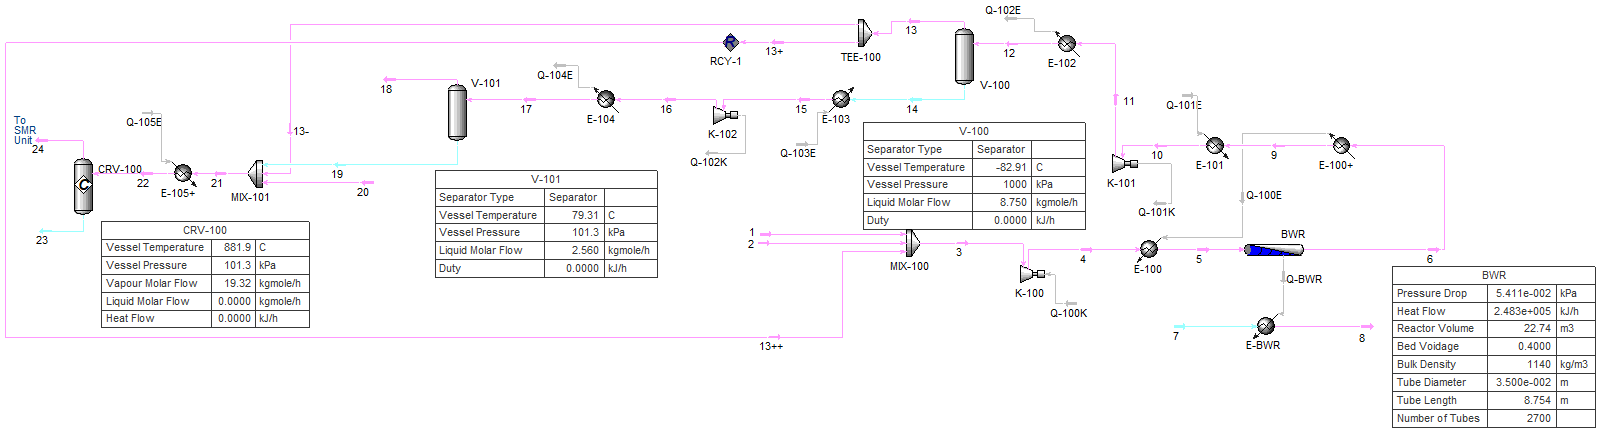
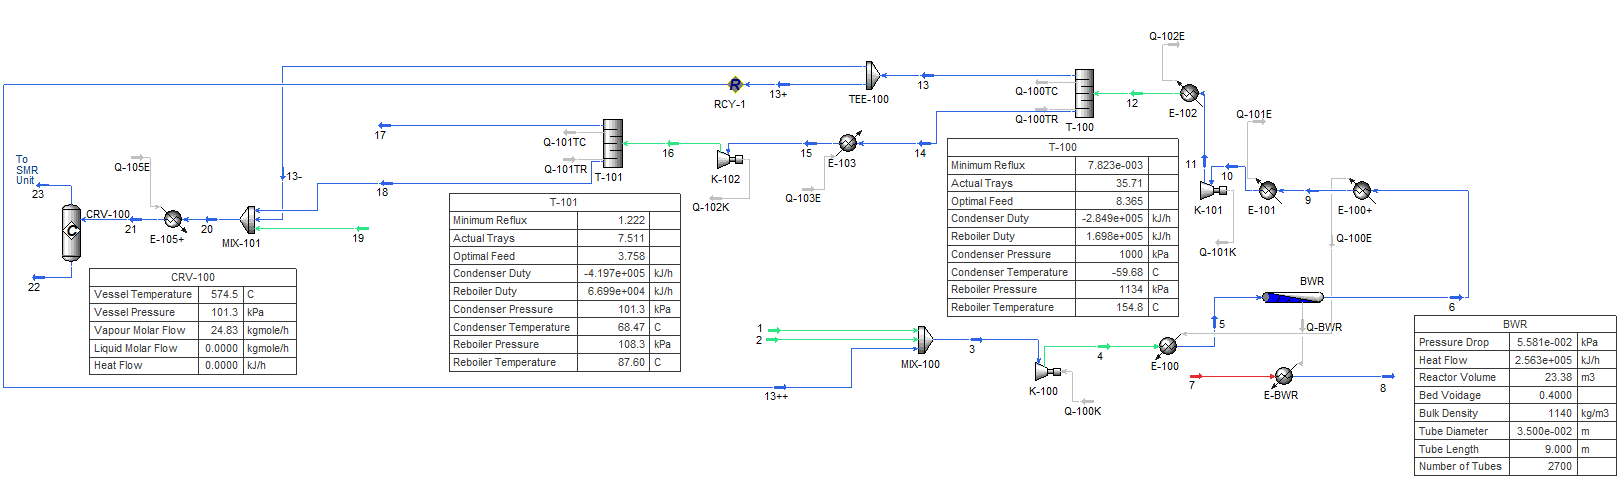
added recent work with assumptions portion

diff --git a/project_site/index.html b/project_site/index.html
@@ -120,7 +120,9 @@
           <div class="header-item">
               <h1><b>About</b></h1>
               <p>In partnership with HyGear, we are developing a modular, containerized green methanol synthesis unit that utilizes hydrogen and CO₂ from biogas upgrading. The project explores two pathways: (1) using syngas (H₂, CO, and CO₂) produced from steam methane reforming (SMR), and (2) synthesizing methanol directly from biogenic CO₂ and electrolytic hydrogen. Along with optimizing the process to align with HyGear’s SMR unit, the study will also examine the broader potential for captured CO₂, including its use in industries like food and beverage, greenhouse agriculture, or long-term storage through geologic sequestration. With evolving policies such as 45Q tax credits and state-level carbon regulations, the goal is to identify the most viable approach—whether through green methanol production or alternative CO₂ utilization and storage strategies.</p>
-          </div>
+              <br>
+              <h1><b>Pathways</b></h1>
+              <p>H₂ and CO₂ feedstocks were derived from HyGear's and their partner company's -- HoSt's -- established technologies. The conventional pathway will use H₂ and CO₂ feedstocks, produced by HyGear's SMR Grand unit, at 25°C and 1-30 bar. In this case we will assume a pressure of 30 bar, <a href="https://hygear.com/technology/steam-methane-reforming/">as shown on the website</a>. The green methanol pathway will utilize H₂ gas produced from HyGear's electrolyzer unit and CO₂ gas produced from HoSt's biogas upgrading unit, at corresponding units' outlet conditions of 90°C, 1.5 kPa and 20°C, 2 mbarg -- respectively. </p>
       </div>
   </div>
     <div class="fade-section section-three" id="results">
@@ -129,29 +131,29 @@
       <p><i>please scroll left to right to see current work on process development & methanol market research, sources to sourced images can be either accessed by clicking on the "(img src)" link or on the image itself </i></p>
       <div class="carousel-container">
         <div class="carousel-slide active">
-          <img src="current_model + tables.png">
+          <img src="current_model + tables_green.png">
           <div class="caption">
             <h1>
-              Model
+              Green Methanol Process Simulation
             </h1>
             <p>
-              TOP: ASPEN HYSYS implementation of methanol process model
+              TOP: ASPEN HYSYS implementation of green methanol process model
               <br>
               BOTTOM: ASPEN HYSYS tables
+              <br>
+              <br>
+              Outlined streams: <p style="color:rgb(127, 255, 146)">&nbsp; &nbsp; product</p><p style="color: rgb(255, 141, 190)">&nbsp; &nbsp; waste</p><p style="color: aqua">&nbsp; &nbsp; recycle distillation column outlets</p><p style="color: peachpuff">&nbsp; &nbsp; reactor effluent</p>
             </p>
-            
-            <br>
-
           </div>
         </div>
         <div class="carousel-slide">
-          <img src="current_model_aspen_tables.png">
+          <img src="current_model_green.png">
           <div class="caption">
             <h1>
-              Model Data Zoom-In
+              Green Methanol Process
             </h1>
             <p>
-              Closer look at simulation data
+              Closer look at green methanol process
             </p>
             
             <br>
@@ -159,31 +161,28 @@
           </div>
         </div>
         <div class="carousel-slide">
-          <a href="https://www.methanol.org/methanol-price-supply-demand/"><img src="https://www.methanol.org/wp-content/uploads/2025/01/MMSA-quarterly-supply-demand-graph.png"></a>
+          <img src="current_model + tables_smr.png">
           <div class="caption">
             <h1>
-              Methanol Market
+              Conventional Methanol Process Simulation
               <p>
-                Production is expected to increase by 2-3% in coming years with methanol-to-olefins and formaldehyde markets being the greatest consumers of methanol. 
+                TOP: ASPEN HYSYS implementation of conventional methanol process model
                 <br>
-                The following source provides more information of these markets, including use in fuel cells: <a href="https://www.sciencedirect.com/science/article/pii/S0196890424000116?via%3Dihub#s0045">https://www.sciencedirect.com/science/article/pii/S0196890424000116?via%3Dihub#s0045</a> 
+                BOTTOM: ASPEN HYSYS tables
                 <br>
                 <br>
-                <a href="https://www.methanol.org/methanol-price-supply-demand/">(img src)</a>  
+              Outlined streams: <p style="color:rgb(127, 255, 146)">&nbsp; &nbsp; product</p><p style="color: rgb(255, 141, 190)">&nbsp; &nbsp; waste</p><p style="color: aqua">&nbsp; &nbsp; recycle distillation column outlets</p><p style="color: peachpuff">&nbsp; &nbsp; reactor effluent</p>
               </p>
             </h1>
           </div>
         </div>
         <div class="carousel-slide">
-          <a href="https://www.methanol.org/methanol-price-supply-demand/"><img src="https://www.methanol.org/wp-content/uploads/2024/12/SCR-20241210-pq8.png"></a>
+          <img src="current_model_smr.png">
           <div class="caption">
             <h1>
-              Current Methanol Industry with Forecasting
+              Conventional Methanol Process
               <p>
-                Global production grows with demand with expectation of production capacity to increase further than demand.
-                <br>
-                <br>
-                <a href="https://www.methanol.org/methanol-price-supply-demand/">(img src)</a>  
+                Closer look at conventional methanol process
               </p>
             </h1>
           </div>

diff --git a/project_site/style.css b/project_site/style.css
@@ -586,6 +586,16 @@ body {
   overflow-wrap: break-word;
 }
 
+.section-two a{
+  font-size: inherit;
+  text-decoration: underline;
+}
+
+.section-two a:hover{
+  color: #00fbff; /* Darker shade of original color */
+  filter: brightness(0.75);
+}
+
 .section-three {
   background-color: #ffffff;
   flex-direction: column;  /* ✅ Stack image over text */
